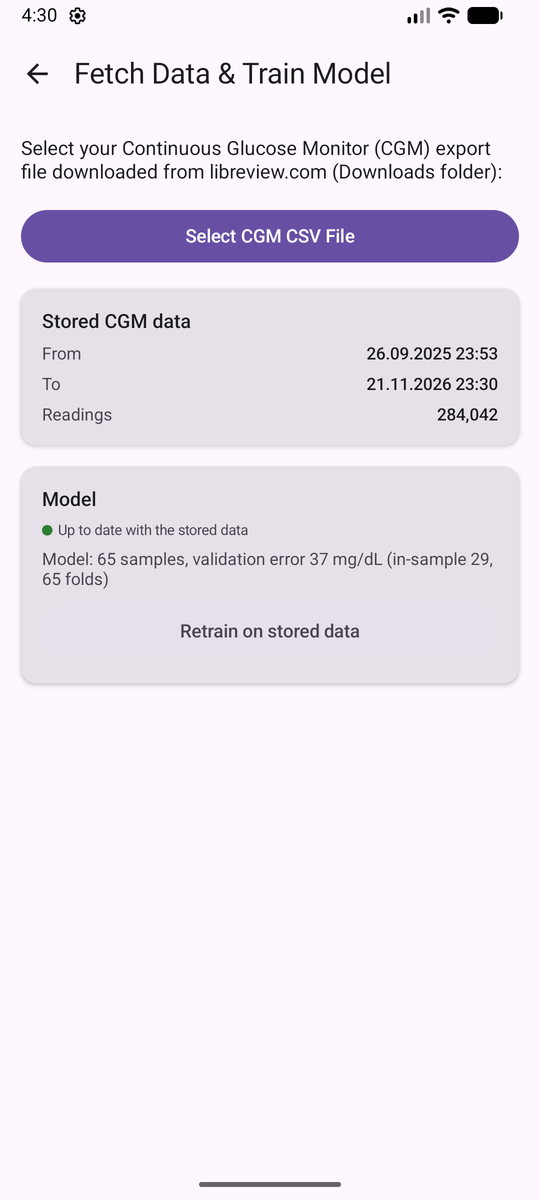
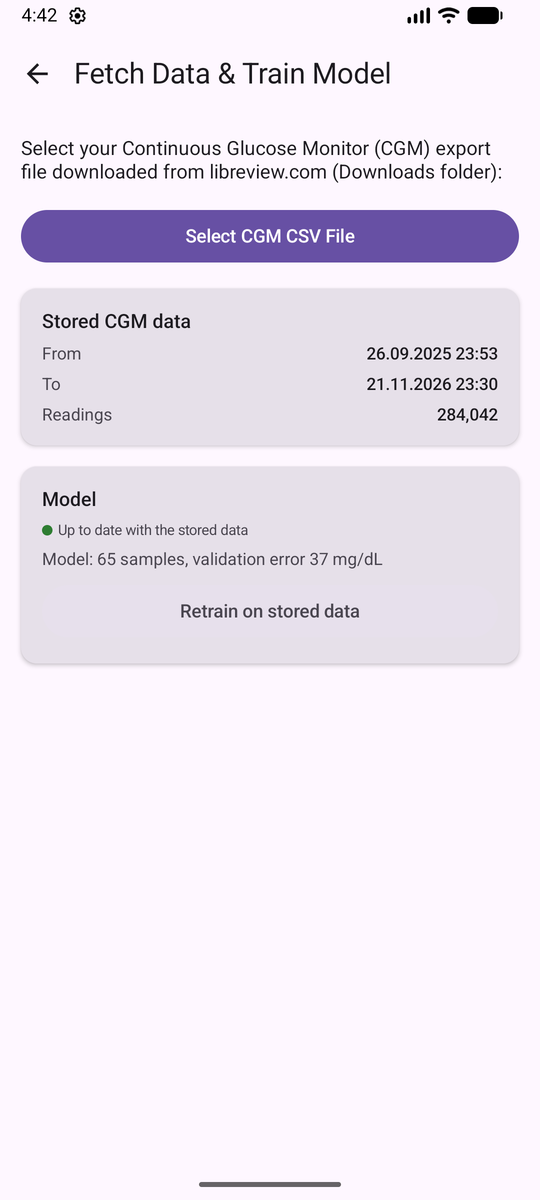
feat: frame the two comparison plots with axes and meal numbers
The benchmark plot and the trailing-window plot draw the same two running averages over
different spans, and only the first had an x label - the window floated as an unlabelled
second chart at a different scale.

MissPlot now draws its own frame: left and bottom axes, a half-way gridline matching the
middle tick label, and x labels inside the plot column so they span exactly the canvas
instead of being offset by a guessed 32 dp. The window is labelled with its real meal
numbers (meal 36 .. meal 55), which places it on the history above. 'Last 20' becomes
'Last 20 meals'.

Main and Fetch also drop the '(in-sample 29, 65 folds)' tail from the model status line:
one number, the validated one, instead of implementation vocabulary beside a suggestion.

diff --git a/app/src/main/java/com/example/glpred/ui/AnalysisScreen.kt b/app/src/main/java/com/example/glpred/ui/AnalysisScreen.kt
@@ -222,16 +222,12 @@ private fun BenchmarkCard(analysis: ModelVsHuman) {
             Line(comparisonLine(analysis), muted = true)
 
             Figure("Average distance from 90 mg/dL, meal by meal") {
-                MissPlot(model = modelMiss, user = userMiss)
-                Row(
-                    modifier = Modifier
-                        .fillMaxWidth()
-                        .padding(start = 34.dp),
-                    horizontalArrangement = Arrangement.SpaceBetween
-                ) {
-                    Caption("first meal")
-                    Caption("meal ${pairs.size}")
-                }
+                MissPlot(
+                    model = modelMiss,
+                    user = userMiss,
+                    startLabel = "first meal",
+                    endLabel = "meal ${pairs.size}"
+                )
                 Row(horizontalArrangement = Arrangement.spacedBy(12.dp)) {
                     DotLegend(Color(0xFF2E7D32), "model's dose")
                     DotLegend(MaterialTheme.colorScheme.primary, "your dose")
@@ -251,14 +247,20 @@ private fun RecentCard(analysis: ModelVsHuman) {
 
     Card(modifier = Modifier.fillMaxWidth(), elevation = CardDefaults.cardElevation(defaultElevation = 2.dp)) {
         Column(modifier = Modifier.padding(16.dp), verticalArrangement = Arrangement.spacedBy(6.dp)) {
-            SectionTitle("Last ${recent.size}")
+            SectionTitle("Last ${recent.size} meals")
             if (recent.size < 2) {
                 Line("Not enough scored meals in the recent window yet.", muted = true)
                 return@Column
             }
+            // The window's real meal numbers, so it can be placed on the history above instead of
+            // floating as an unlabelled second chart.
+            val lastMeal = analysis.benchmark.scored
+            val firstMeal = lastMeal - recent.size + 1
             MissPlot(
                 model = runningAverage(recent.map { it.first }),
-                user = runningAverage(recent.map { it.second })
+                user = runningAverage(recent.map { it.second }),
+                startLabel = if (firstMeal <= 1) "first meal" else "meal $firstMeal",
+                endLabel = "meal $lastMeal"
             )
             Row(horizontalArrangement = Arrangement.spacedBy(12.dp)) {
                 DotLegend(Color(0xFF2E7D32), "model's dose")
@@ -339,18 +341,30 @@ private fun runningAverage(values: List<Double>): List<Double> {
  *
  * No per-meal verdict is drawn: a verdict discards how far each side was, which is the only quantity
  * worth comparing, and it degenerates into ties once the user starts following the model.
+ *
+ * The same picture appears twice on the screen - over the whole history and over the trailing window -
+ * so the plot carries its own frame and its own meal labels. Without them the two read as the same span
+ * at two scales, and the window's "last twenty" cannot be placed on the history above it.
  */
 @Composable
-private fun MissPlot(model: List<Double>, user: List<Double>) {
+private fun MissPlot(
+    model: List<Double>,
+    user: List<Double>,
+    startLabel: String,
+    endLabel: String
+) {
     val green = Color(0xFF2E7D32)
     val you = MaterialTheme.colorScheme.primary
+    val gridColor = MaterialTheme.colorScheme.outlineVariant
+    val axisColor = MaterialTheme.colorScheme.onSurfaceVariant
     val ceiling = maxOf(model.maxOrNull() ?: 1.0, user.maxOrNull() ?: 1.0).coerceAtLeast(1.0)
     val top = ceil(ceiling / 20.0) * 20.0
+    val plotHeight = 72.dp
 
     Row(modifier = Modifier.fillMaxWidth()) {
         Column(
             modifier = Modifier
-                .height(72.dp)
+                .height(plotHeight)
                 .padding(end = 6.dp),
             verticalArrangement = Arrangement.SpaceBetween,
             horizontalAlignment = Alignment.End
@@ -359,26 +373,46 @@ private fun MissPlot(model: List<Double>, user: List<Double>) {
             Caption((top / 2).roundToInt().toString())
             Caption("0")
         }
-        Canvas(
-            modifier = Modifier
-                .weight(1f)
-                .height(72.dp)
-        ) {
-            val count = maxOf(model.size, user.size)
-            if (count < 2) return@Canvas
+        // The labels sit under the canvas in this same column, so they span exactly the plot's width.
+        Column(modifier = Modifier.weight(1f)) {
+            Canvas(
+                modifier = Modifier
+                    .fillMaxWidth()
+                    .height(plotHeight)
+            ) {
+                val count = maxOf(model.size, user.size)
+                if (count < 2) return@Canvas
 
-            fun yOf(value: Double): Float =
-                (size.height * (1.0 - (value / top).coerceIn(0.0, 1.0))).toFloat()
+                fun yOf(value: Double): Float =
+                    (size.height * (1.0 - (value / top).coerceIn(0.0, 1.0))).toFloat()
 
-            fun xOf(index: Int): Float = size.width * index / (count - 1).toFloat()
+                fun xOf(index: Int): Float = size.width * index / (count - 1).toFloat()
 
-            listOf(model to green, user to you).forEach { (values, color) ->
-                var previous: Offset? = null
-                values.forEachIndexed { index, value ->
-                    val point = Offset(xOf(index), yOf(value))
-                    previous?.let { drawLine(color, it, point, strokeWidth = 2.4f) }
-                    previous = point
+                // Half-way gridline: it is the line the middle tick label names.
+                val mid = yOf(top / 2)
+                drawLine(gridColor, Offset(0f, mid), Offset(size.width, mid), strokeWidth = 1f)
+
+                listOf(model to green, user to you).forEach { (values, color) ->
+                    var previous: Offset? = null
+                    values.forEachIndexed { index, value ->
+                        val point = Offset(xOf(index), yOf(value))
+                        previous?.let { drawLine(color, it, point, strokeWidth = 2.4f) }
+                        previous = point
+                    }
                 }
+
+                // Axes last, so they read as a frame rather than as another data line.
+                drawLine(axisColor, Offset(0f, 0f), Offset(0f, size.height), strokeWidth = 2f)
+                drawLine(axisColor, Offset(0f, size.height), Offset(size.width, size.height), strokeWidth = 2f)
+            }
+            Row(
+                modifier = Modifier
+                    .fillMaxWidth()
+                    .padding(top = 3.dp),
+                horizontalArrangement = Arrangement.SpaceBetween
+            ) {
+                Caption(startLabel)
+                Caption(endLabel)
             }
         }
     }

diff --git a/app/src/main/java/com/example/glpred/ui/DiaryViewModel.kt b/app/src/main/java/com/example/glpred/ui/DiaryViewModel.kt
@@ -475,8 +475,9 @@ class DiaryViewModel(application: Application) : AndroidViewModel(application) {
                 val validation = result.looRmse4h
                 val base = when {
                     validation != null ->
-                        "Model: ${result.samples4h} samples, validation error ${validation.toInt()} mg/dL " +
-                            "(in-sample ${result.rmse4h.toInt()}, ${result.looFolds4h} folds)"
+                        // One number, the honest one: the in-sample figure and the fold count were
+                        // implementation vocabulary sitting beside a suggestion.
+                        "Model: ${result.samples4h} samples, validation error ${validation.toInt()} mg/dL"
                     result.restoredAtStartup ->
                         "Model: ${result.samples4h} samples, restored from storage - the validation " +
                             "error is recomputed at the next import"
